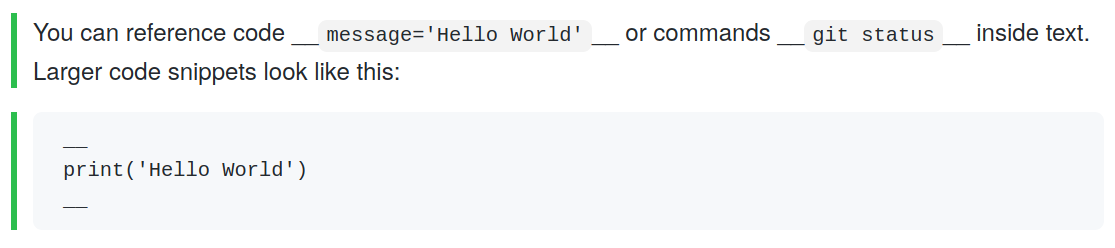
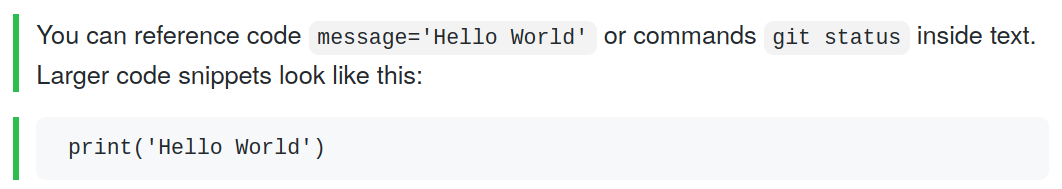
Use format 'template, target view, solution' in Add Code exercise
instead of having participants type and fill blanks rendered in target view

Changed region(s): [[0.0, 0.0529, 0.9944, 0.9524], [0.0621, 0.582, 0.0932, 0.6085]]

diff --git a/episodes/02-markdown.md b/episodes/02-markdown.md
@@ -170,7 +170,19 @@ You can use single backticks to call out code, e.g. `print('Hello world')` and
 use triple backticks to format larger code snippets, creating code blocks.
 
 > ## Add Code
-> Fill in the blanks ( __ ) below to create the following view
+> Fill in the blanks ( __ ) in this code
+>
+> ~~~
+> You can reference code __message='Hello World'__
+> or commands __git status__ inside text.
+> Larger code snippets look like this:
+> __
+> print('Hello World')
+> __
+> ~~~
+> {: .source }
+>
+> to create the following view
 >
 > ![Preview tab with blanks before code and code blocks](../fig/exercise_add_code.png)
 >
@@ -178,7 +190,7 @@ use triple backticks to format larger code snippets, creating code blocks.
 > > ## Solution
 > >
 > >     You can reference code `message='Hello World'`
-> >     or commands `git status` inside text.
+> >     or commands `git status` inside text.  
 > >     Larger code snippets look like this:
 > >     ```
 > >     print('Hello World')
